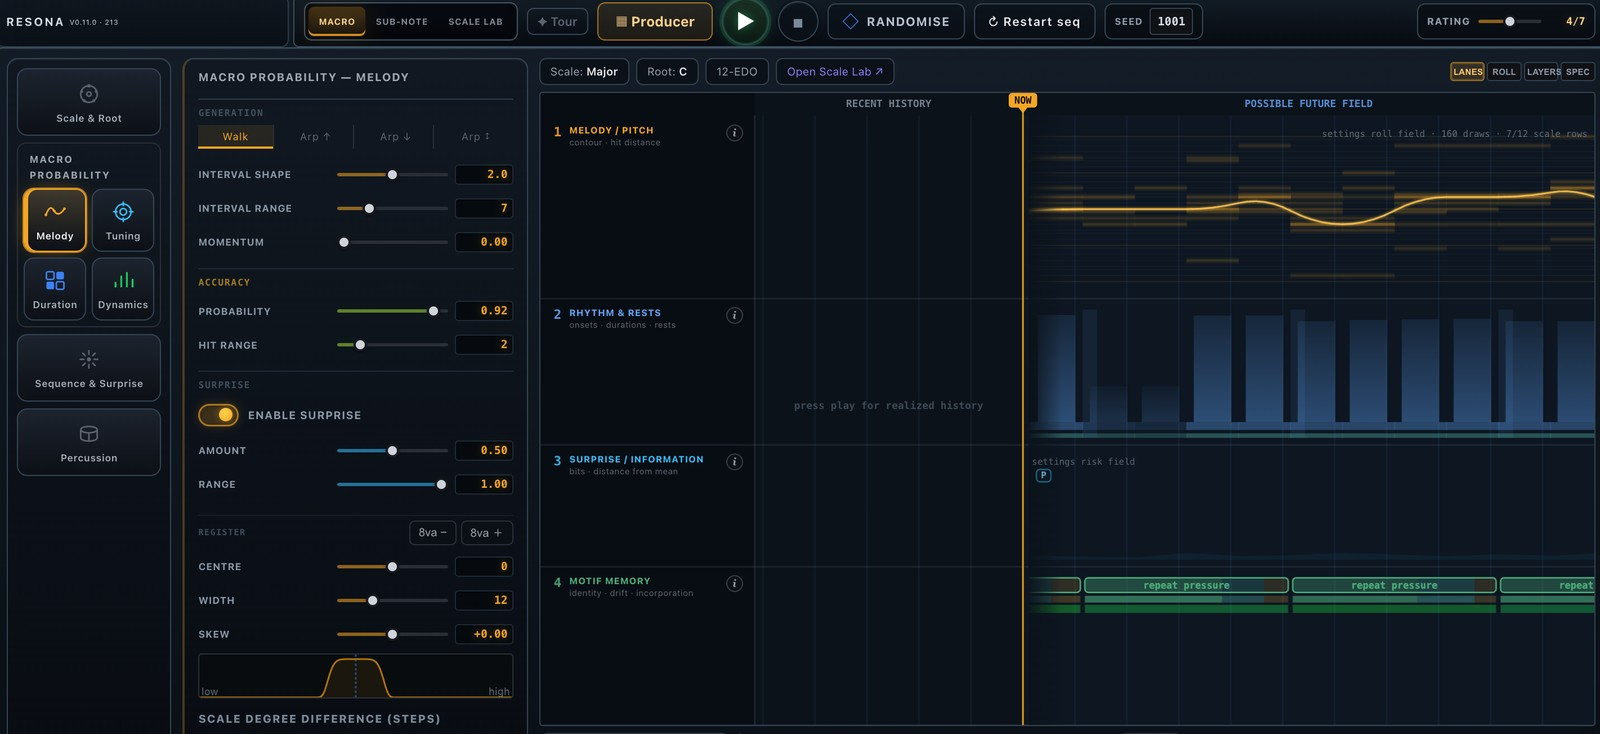
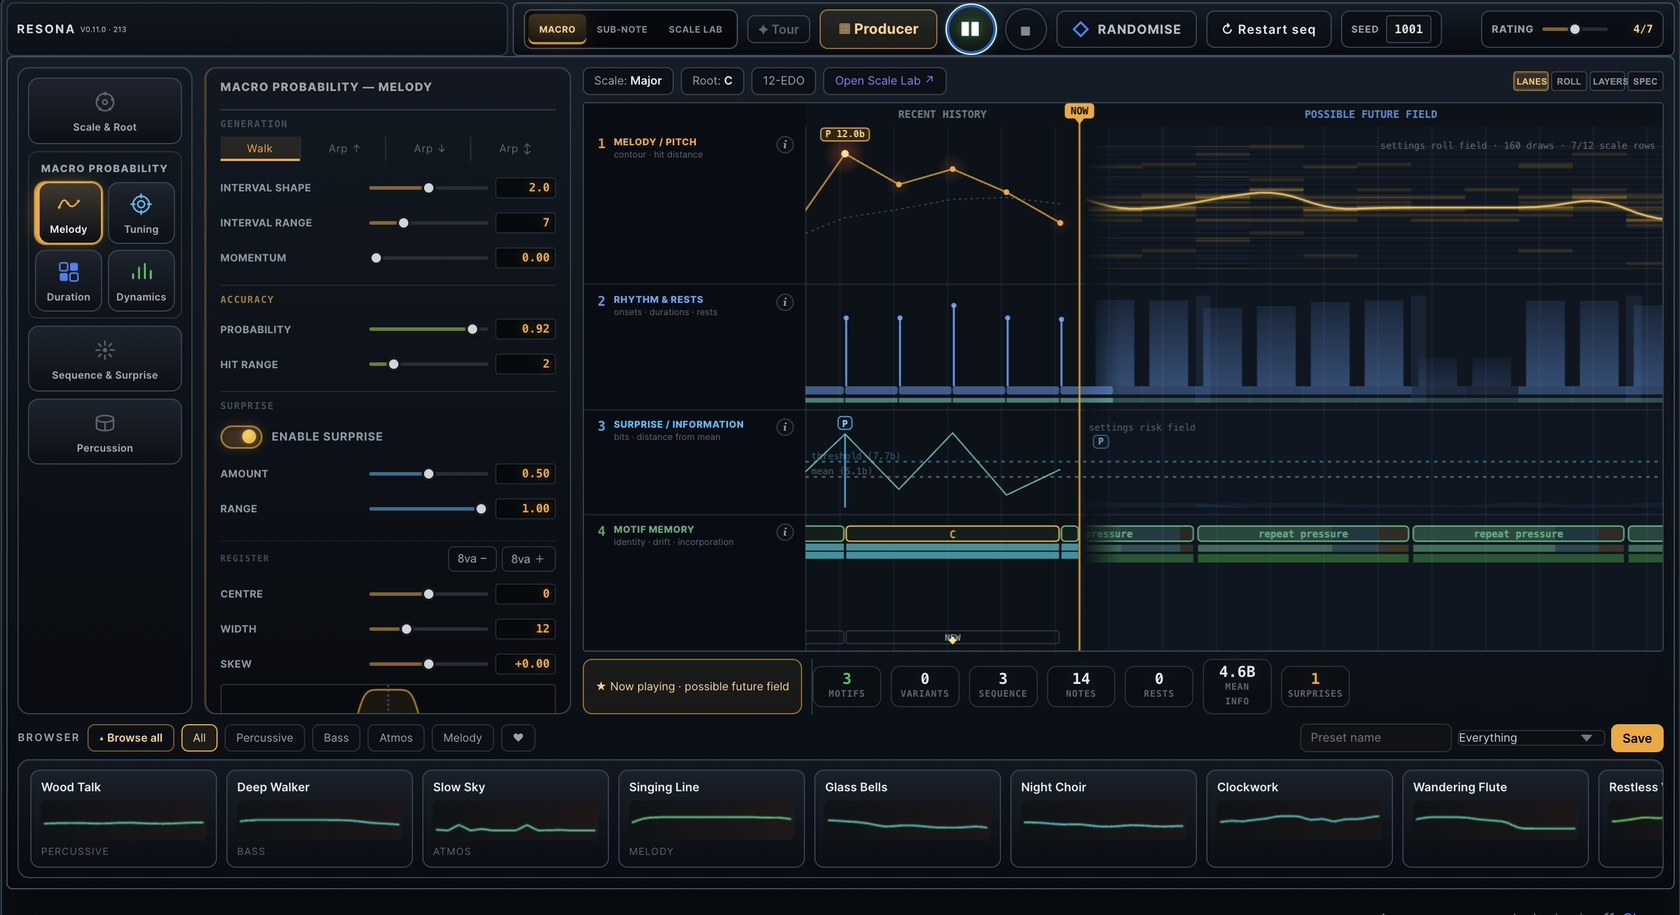
Use curated full-interface states; add Scale Lab, Space ear-response, piano-roll views

diff --git a/index.html b/index.html
@@ -96,22 +96,33 @@
         </ul>
 
         <figure class="shot-full">
-          <img class="shot" src="assets/software/resona-tone.jpg"
-               alt="Resona's sub-note tone designer: the excitor, resonator, body, effects and space chain above a live partial field and per-note envelope.">
+          <img class="shot" src="assets/software/resona-tonespace.jpg"
+               alt="Resona's sub-note designer showing the binaural Space ear-response, the excitor to space chain, and two layers each with a full effects chain.">
           <figcaption>
-            The sub-note tone designer — shape a single note from its partial
-            field: excitor → resonator → body → effects → space, with a per-note
-            envelope and modulation.
+            The sub-note designer — build a single note from its excitor →
+            resonator → body → effects → space chain, place it in a binaural
+            room (head / room / air models fitted from measured HRTFs), then
+            stack layers, each carrying its own effects chain.
           </figcaption>
         </figure>
 
         <figure class="shot-full">
           <img class="shot" src="assets/software/resona-daw.jpg"
-               alt="Resona's producer: seed-reproducible regions on a multitrack timeline with a global scale and a global space evolving over time.">
+               alt="Resona's producer with the piano-roll note editor open beneath a multitrack timeline of seed-reproducible regions.">
           <figcaption>
             The producer — arrange seed-reproducible takes on a multitrack
-            timeline, with a global scale and a global space that evolve across
-            the arrangement.
+            timeline (with a global scale and a global space that evolve over
+            time), and bake any region open into a piano-roll note editor.
+          </figcaption>
+        </figure>
+
+        <figure class="shot-full">
+          <img class="shot" src="assets/software/resona-scalelab.jpg"
+               alt="Resona's Scale Lab: a microtonal tuning wheel with just-ratio and EDO grids, tuning presets and Scala import and export.">
+          <figcaption>
+            The Scale Lab — design microtonal scales on a tuning wheel: N-EDO
+            grids, just-ratio intervals, per-degree roles and cents, with Scala
+            import / export.
           </figcaption>
         </figure>
 